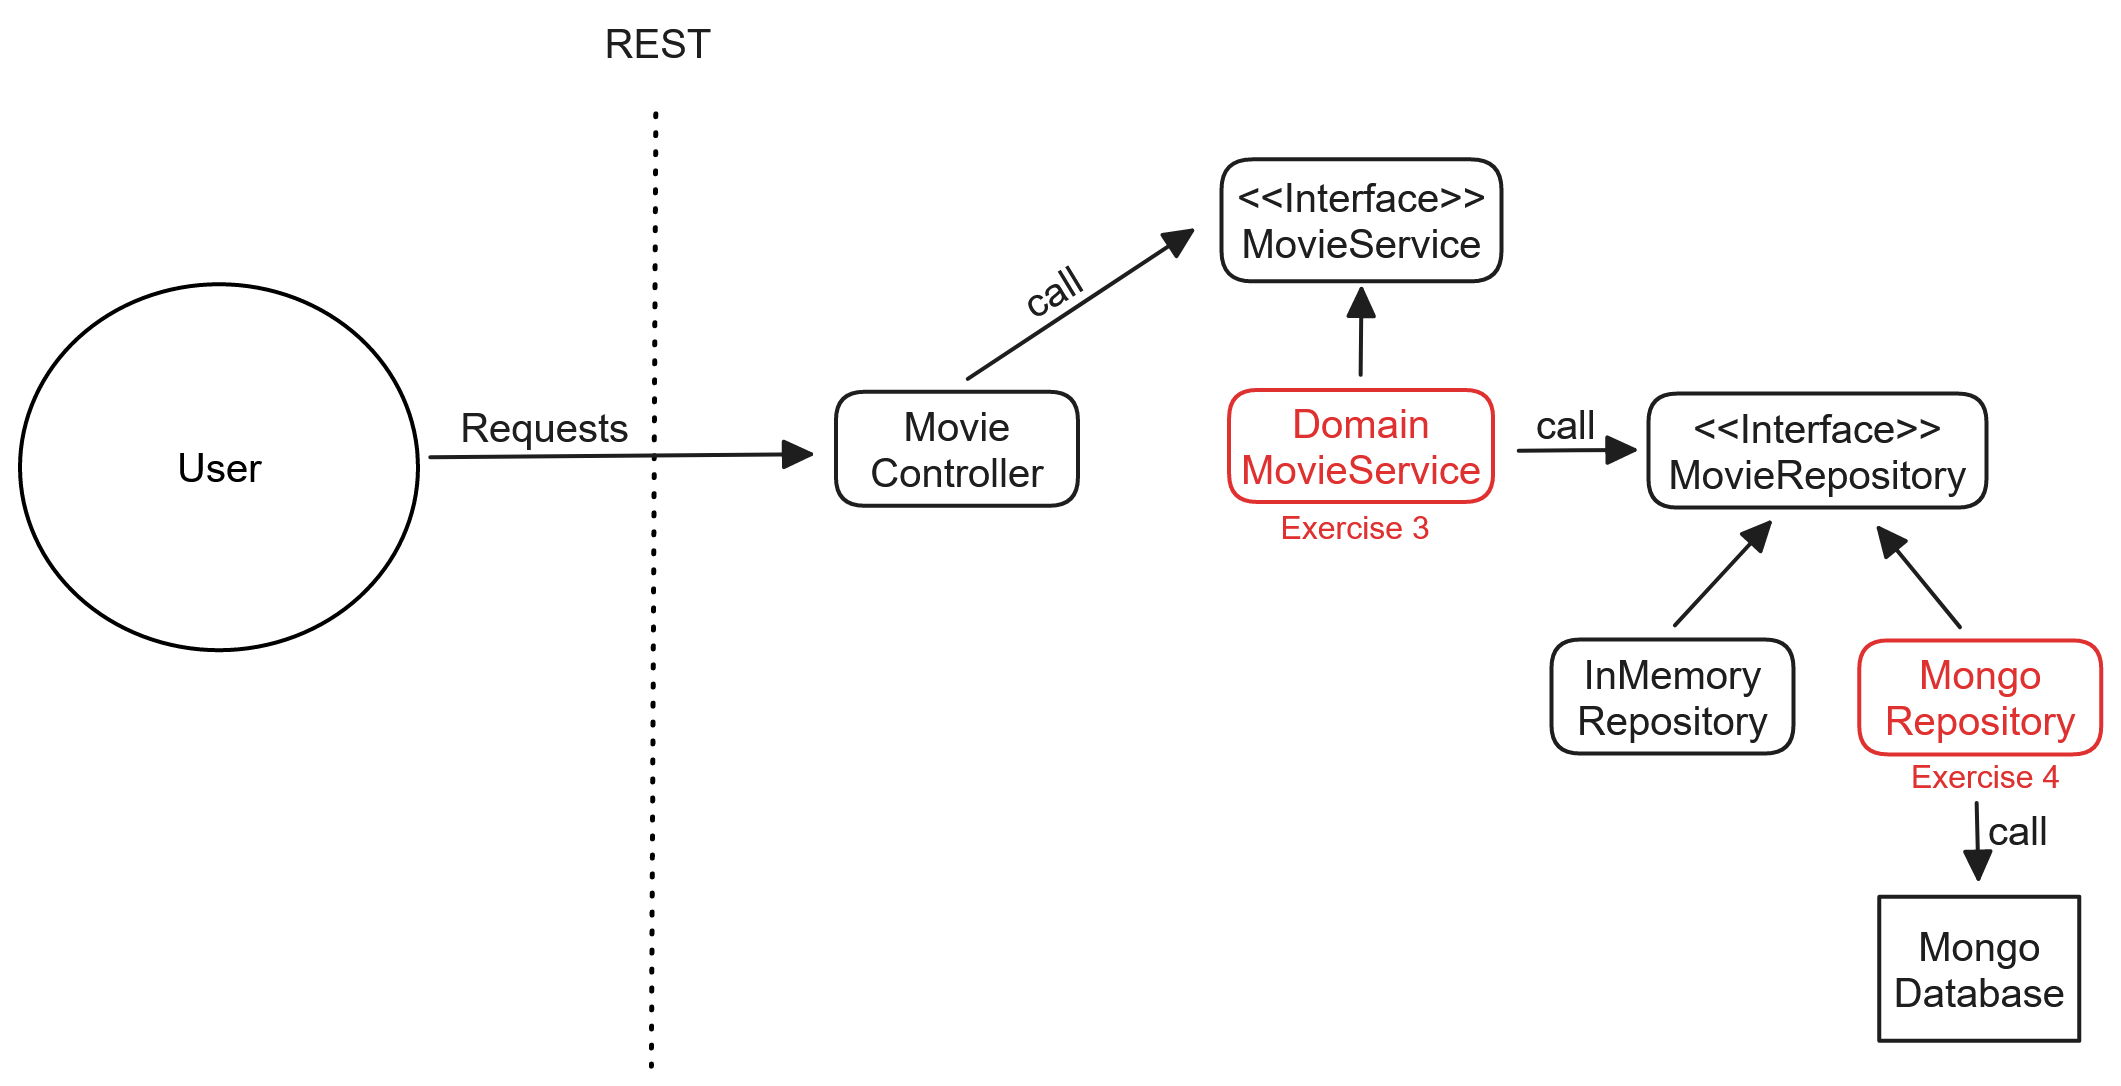
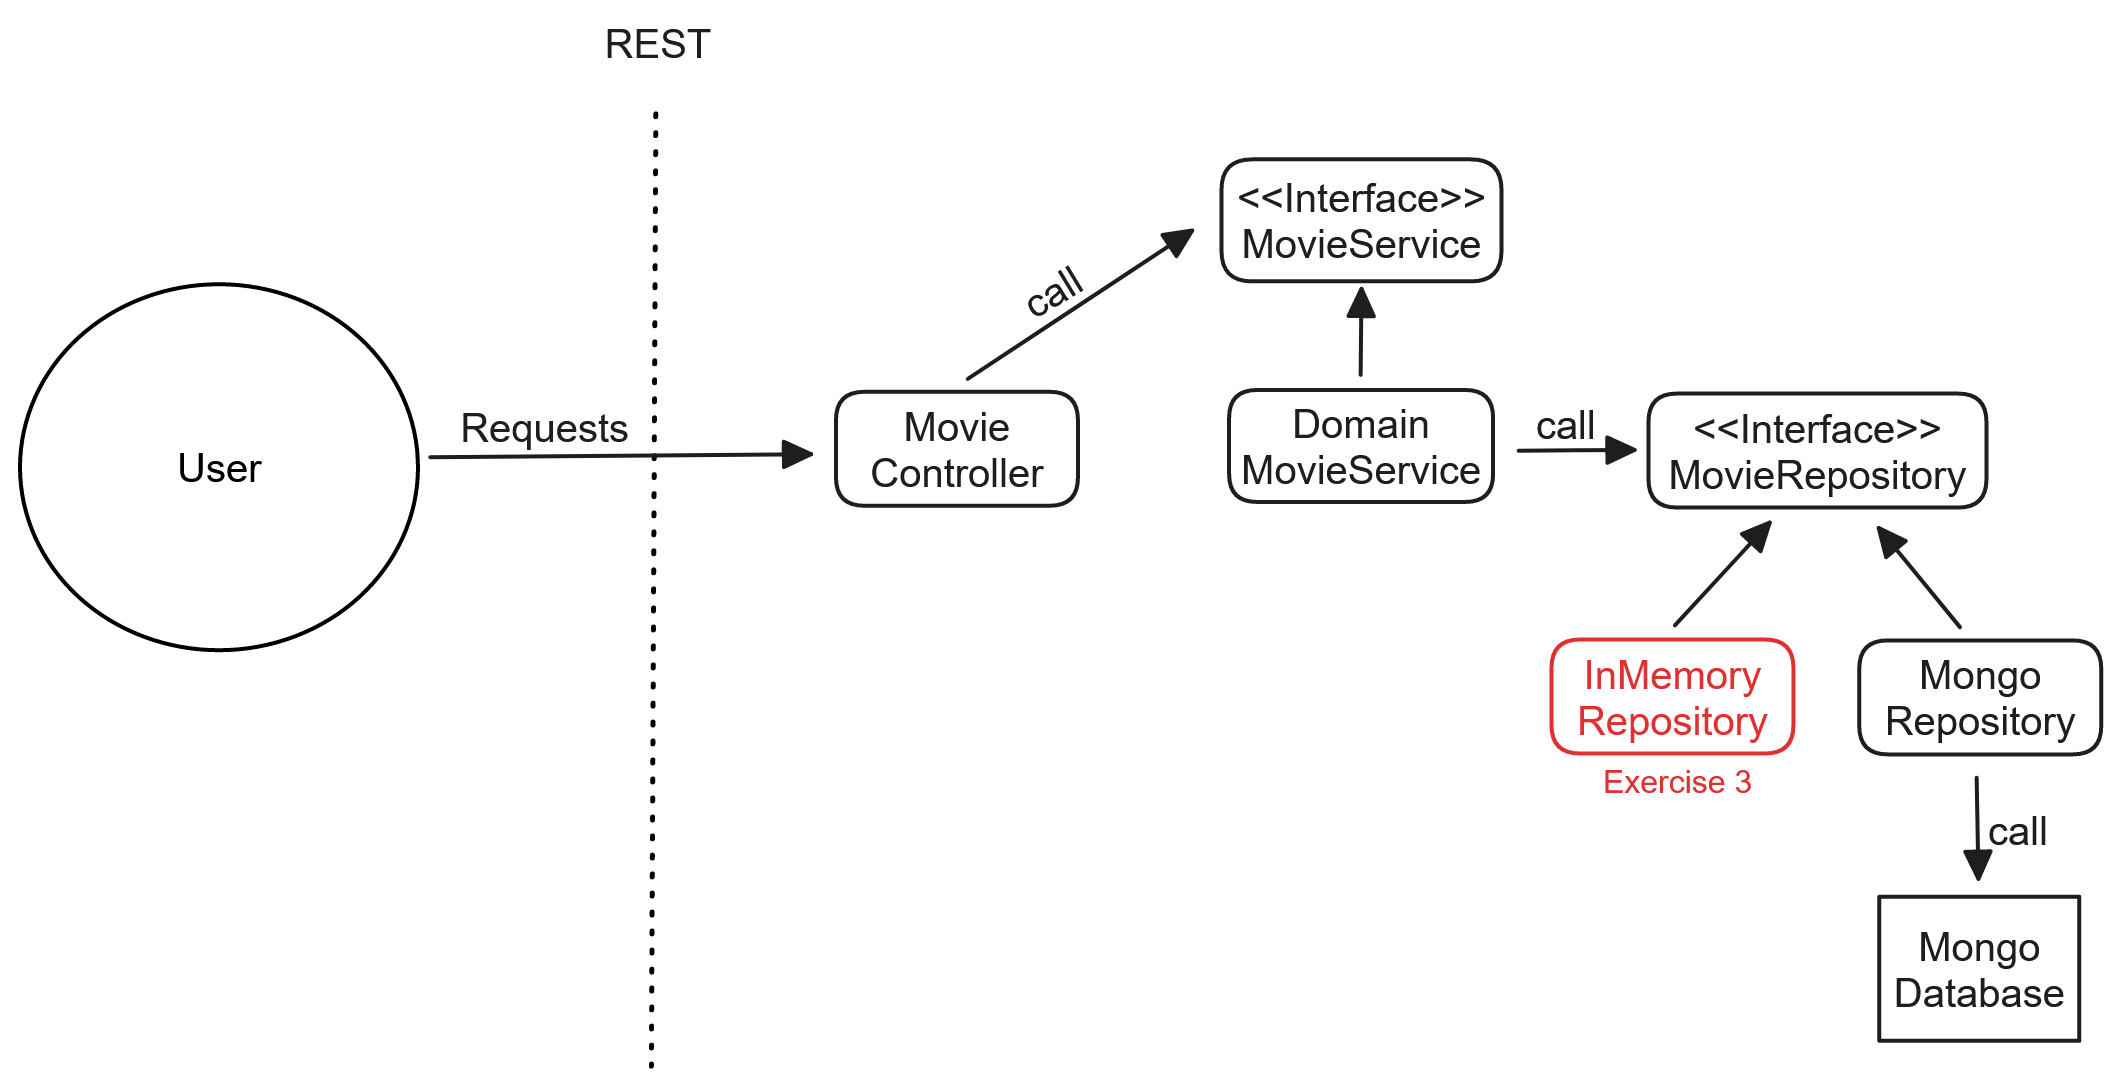
slide updates

Changed region(s): [[0.7157, 0.5773, 0.8402, 0.7293], [0.8713, 0.5773, 0.9958, 0.7293], [0.5601, 0.3343, 0.7157, 0.5166]]

diff --git a/docs/index.html b/docs/index.html
@@ -23,12 +23,47 @@
                 <a style="font-style: italic" href="https://go.dev">Go</a>
             </h3>
             <p>Stefan Zilch & Marcel Schneider<br>HS Mannheim 28.07.2023</p>
-            <p>
-
-            </p>
         </section>
         <section>
-            <h3>Our Agenda for today</h3>
+            <table>
+                <tr>
+                    <td><img style="padding:0;margin:0" src="img/stefan.jpg" height="200"><br><span style="padding:0;margin:0"><small>Stefan Zilch</small></span></td>
+                    <td><img style="padding:0;margin:0" src="img/marcel.jpg" height="200"><br><span style="padding:0;margin:0"><small>Marcel Schneider</small></span></td>
+                </tr>
+            </table>
+            <img src="img/bit_claim.jpg" alt="bIT Logo" height="140">
+        </section>
+        <section>
+            <h3>Our Agenda for today (1)</h3>
+            <table>
+                <thead>
+                <tr>
+                    <th>Time</th>
+                    <th>Topic</th>
+                </tr>
+                </thead>
+                <tbody>
+                <tr>
+                    <td>09:00 - 10:15</td>
+                    <td>Intro & HandsOn: Hello World</td>
+                </tr>
+                <tr>
+                    <td>10:15 - 10:30</td>
+                    <td>Coffee Break</td>
+                </tr>
+                <tr>
+                    <td>10:30 - 12:30</td>
+                    <td>HandsOn: Soundex</td>
+                </tr>
+                <tr>
+                    <td>12:30 - 13:30</td>
+                    <td>Lunch Break</td>
+                </tr>
+                </tbody>
+            </table>
+        </section>
+        <section>
+            <h3>Our Agenda for today (2)</h3>
             <table>
                 <thead>
                     <tr>
@@ -38,31 +73,36 @@
                 </thead>
                 <tbody>
                     <tr>
-                        <td>13:15 - 13:45</td>
-                        <td>HandsOn: Hello World</td>
+                        <td>13:30 - 14:00</td>
+                        <td>Object Orientation in Go</td>
                     </tr>
                     <tr>
-                        <td>13:45 - 15:15</td>
-                        <td>HandsOn: Soundex</td>
+                        <td>14:00 - 15:15</td>
+                        <td>HandsOn: Movie Database</td>
                     </tr>
                     <tr>
                         <td>15:15 - 15:30</td>
                         <td>Coffee Break</td>
                     </tr>
                     <tr>
-                        <td>15:30 - 15:45</td>
-                        <td>Object Orientation in Go</td>
-                    </tr>
-                    <tr>
-                        <td>15:45 - 16:30</td>
-                        <td>HandsOn: Movie Database</td>
+                        <td>15:30 - 16:30</td>
+                        <td>HandsOn: Concurrency</td>
                     </tr>
                     <tr>
                         <td>16:30 - 17:00</td>
-                        <td>Cool Down + Feedback</td>
+                        <td>Cool Down & Feedback</td>
                     </tr>
                 </tbody>
             </table>
+        </section>
+        <section>
+            <h3>Goals of this Workshop</h3>
+            <ul>
+                <li>Learn the Basics of Go</li>
+                <li>Write a Go App from scratch</li>
+                <li>Understand Error Handling, Testing, Object Orientation and Concurrency in Go</li>
+                <li>Resource Consumption: Go vs. Java</li>
+            </ul>
         </section>
         <section>
             <h3>Tools you need locally</h3>
@@ -304,26 +344,26 @@ func TestSoundex(t *testing.T) {
         <section data-background="img/movieapp.png" data-background-size="80%">
         </section>
         <section>
-            <h3>Exercise 3: Service Implementation</h3>
+            <h3>Exercise 3: Implement Repository</h3>
             <ul>
                 <li>git clone <a href="https://github.com/bridgingIT/go-workshop">github.com/bridgingIT/go-workshop</a></li>
-                <li>git checkout <a href="https://github.com/bridgingIT/go-workshop/tree/service-implementation">service-implementation</a></li>
-                <li><nobr>implement the Interface MovieService in moviedb-go</nobr></li>
-                <li>use the InMemoryRepository in your Service Implementation</li>
+                <li>git checkout <a href="https://github.com/bridgingIT/go-workshop/tree/service-implementation">repository-implementation</a></li>
+                <li>navigate to Subfolder moviedb-go</li>
+                <li><nobr>implement an InMemoryRepository for the moviedb-go</nobr></li>
+                <li><nobr>fulfill the Interface MovieRepository in your implementation</nobr></li>
                 <li>Test your Implementation (prepared Postman calls)</li>
             </ul>
         </section>
         <section>
-            <h3>Exercise 4: Mongo Repository Implementation</h3>
+            <h3>Comparison Go and Java App</h3>
             <ul>
-                <li>git checkout <a href="https://github.com/bridgingIT/go-workshop/tree/repository-implementation">repository-implementation</a></li>
-                <li>create a fully working MongoRepository which implements MovieRepository in moviedb-go</li>
-                <li>use your MongoRepository instead of InMemoryRepository in the App</li>
-                <li>Test your Implementation (prepared Postman calls)</li>
+                <li>Docker Image Size</li>
+                <li>Container Startup Time</li>
+                <li>Container Memory Consumption</li>
             </ul>
         </section>
         <section>
-            <h3>Concurrency</h3>
+            <h3>Next Topic: Concurrency</h3>
             <ul>
                 <li>Goroutine: lightweight Thread managed by the Go Runtime </li>
                 <li><a href="https://pkg.go.dev/sync">sync</a> Package with Mutex/Locks and WaitGroups</li>
@@ -335,24 +375,22 @@ func TestSoundex(t *testing.T) {
             <h3>Demo: <a href="https://goplay.tools/snippet/wbXV9evRMHY">Channel</a></h3>
         </section>
         <section>
-            <h3>Comparison Go and Java App</h3>
+            <h3>Exercise 4: Website Checker</h3>
             <ul>
-                <li>Docker Image Size</li>
-                <li>Container Startup Time</li>
-                <li>Container Memory Consumption</li>
-                <li>Complexity/Simplicity of the Code</li>
+                <li>git checkout <a href="https://github.com/bridgingIT/go-workshop/tree/website-checker">website-checker</a></li>
+                <li>navigate to subfolder website-checker-go</li>
+            </ul>
+        </section>
+        <section>
+            <h3>Conclusion and Feedback</h3>
+            <ul>
+                <li>Small Memory Footprint and fast Startup Time</li>
+                <li>Lightweight Ecosystem</li>
+                <li>Lightweight Ecosystem</li>
+                <li>Good online Documentation</li>
                 <li>What did You like in Go (or not)?</li>
             </ul>
         </section>
-<!--        <section>-->
-<!--            <h3>Conclusion</h3>-->
-<!--            <ul>-->
-<!--                <li>small Memory Footprint and fast Startup Time</li>-->
-<!--                <li>good Fit for Microservice Architectures and/or Cloud Applications</li>-->
-<!--                <li>steep Learning Curve and lean Ecosystem</li>-->
-<!--                <li>good online Documentation</li>-->
-<!--            </ul>-->
-<!--        </section>-->
     </div>
 </div>
 <img style="position: absolute; bottom:0; left:70%; z-index:-1" src="img/golang-dunkel.png" height="120" alt="Gopher"/>
